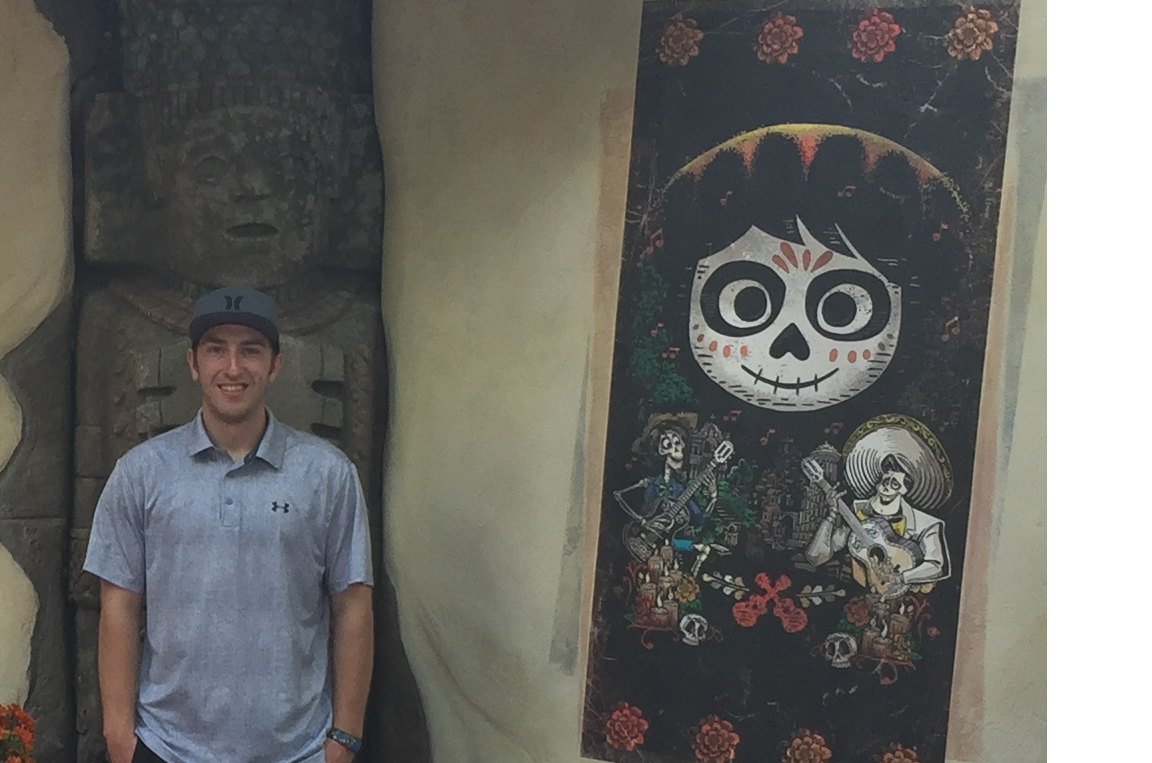
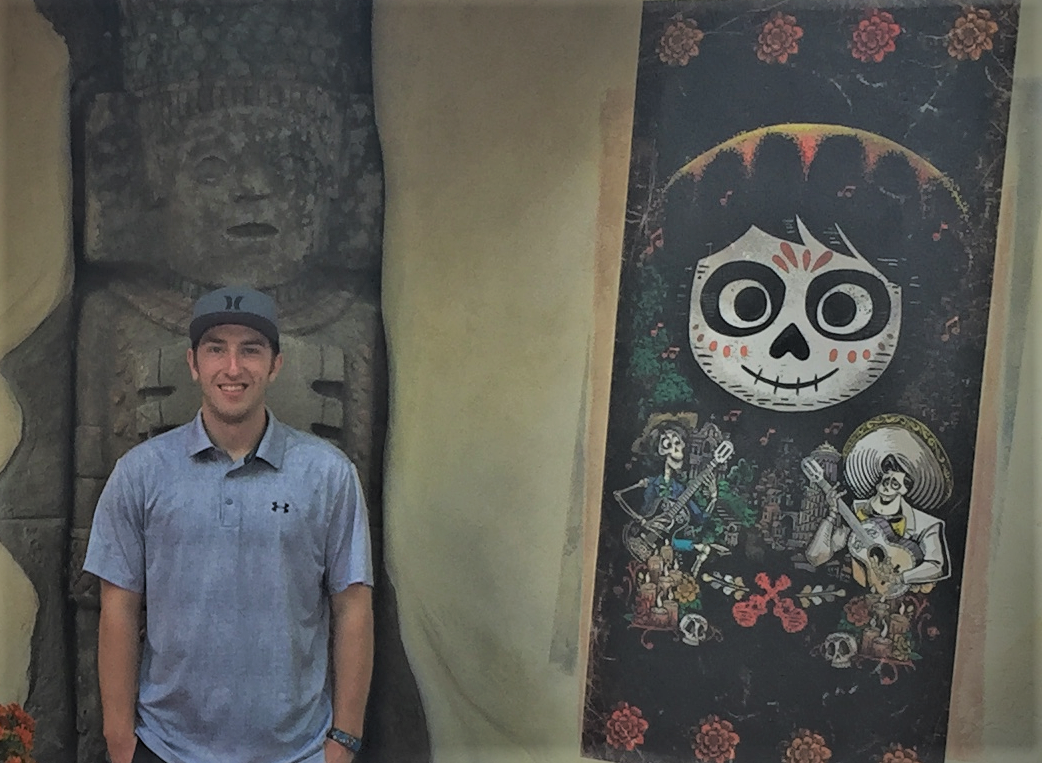
done

diff --git a/index.html b/index.html
@@ -5,16 +5,16 @@
         <meta name="viewport" content="width=device-width, initial-scale=1.0">
         <title>230 Assinment Portal | Kyle A. Foutz | BYU-Idaho</title>
         <meta name="description" content=" ... ">
-        <link rel="stylesheet" href="styles/main.css">
+        <link rel="stylesheet" href="/cit230/styles/main.css">
     </head>
 
     <body>
         <header>
-            <img src="/cit230/images/me2.png"  alt="profilepic">
+            <img src="/cit230/images/me.png"  alt="profilepic">
             <h1>Kyle A. Foutz</h1>
         </header>
         <nav>
-          <comment>To be continued...</comment>  
+          <!--To be continued...--> 
         </nav>
         <main>
             <h2>CIT 230 | Assignment Portal</h2>
@@ -23,7 +23,7 @@
             </ul>
         </main>
         <footer>
-        
+        <p>&copy; Kyle A. Foutz Idaho <a href="http://www.byui.edu/online">BYU-Idaho Online Learning</a></p>
         </footer>    
     </body>
 </html>

diff --git a/cit230/styles/main.css b/cit230/styles/main.css
@@ -1,0 +1,45 @@
+/* CIT 230 - Assignment Portal CSS Template */
+/* You may use #HEX or color names */
+
+/* * is a wildcard referring to all elements. */
+* { margin: 0; box-sizing: border-box; } 
+
+body { 
+    font-size: 16px; 
+    line-height: 32px;
+    font-family: sans-serif;
+    color:  # ;
+}
+
+h1 {
+    font-size: x.xrem  (rem is a unit of measure) ;
+    color: white;
+}
+
+h2 {
+    font-size: /* x.xrem */;
+    text-align: center;
+    border-bottom: 1px solid #bbb;
+}
+
+header, main, footer {
+    margin: 1.25rem auto;
+    padding: .5rem;
+    max-width: /* xxxpx (px = pixel is a unit of measure)  */;
+}
+
+header, footer, footer a {
+    text-align: center;
+    background-color: #00ca95;
+    color: white;
+}
+
+header img {
+    width: 167px;
+    height: auto;
+    float: right;
+}
+
+footer {
+    font-size: /* smaller */;
+}

diff --git a/basicpage.html b/basicpage.html
@@ -10,7 +10,7 @@
     <h1>Kyle A. Foutz</h1>
     <h2>My Location: Idaho</h2>
     <p>My system RAM: 16 GB</p>
-    <p><img src="images/Me1.png" width="400" height="405" alt="Profile Picture"></p>
+    <p><img src="/cit230/images/me.png" width="300" height=auto alt="Profile Picture"></p>
     <p>&star; <a href="http://www.byui.edu/online">BYU-Idaho Online Learning</a> &star;</p>
 </body>
 
